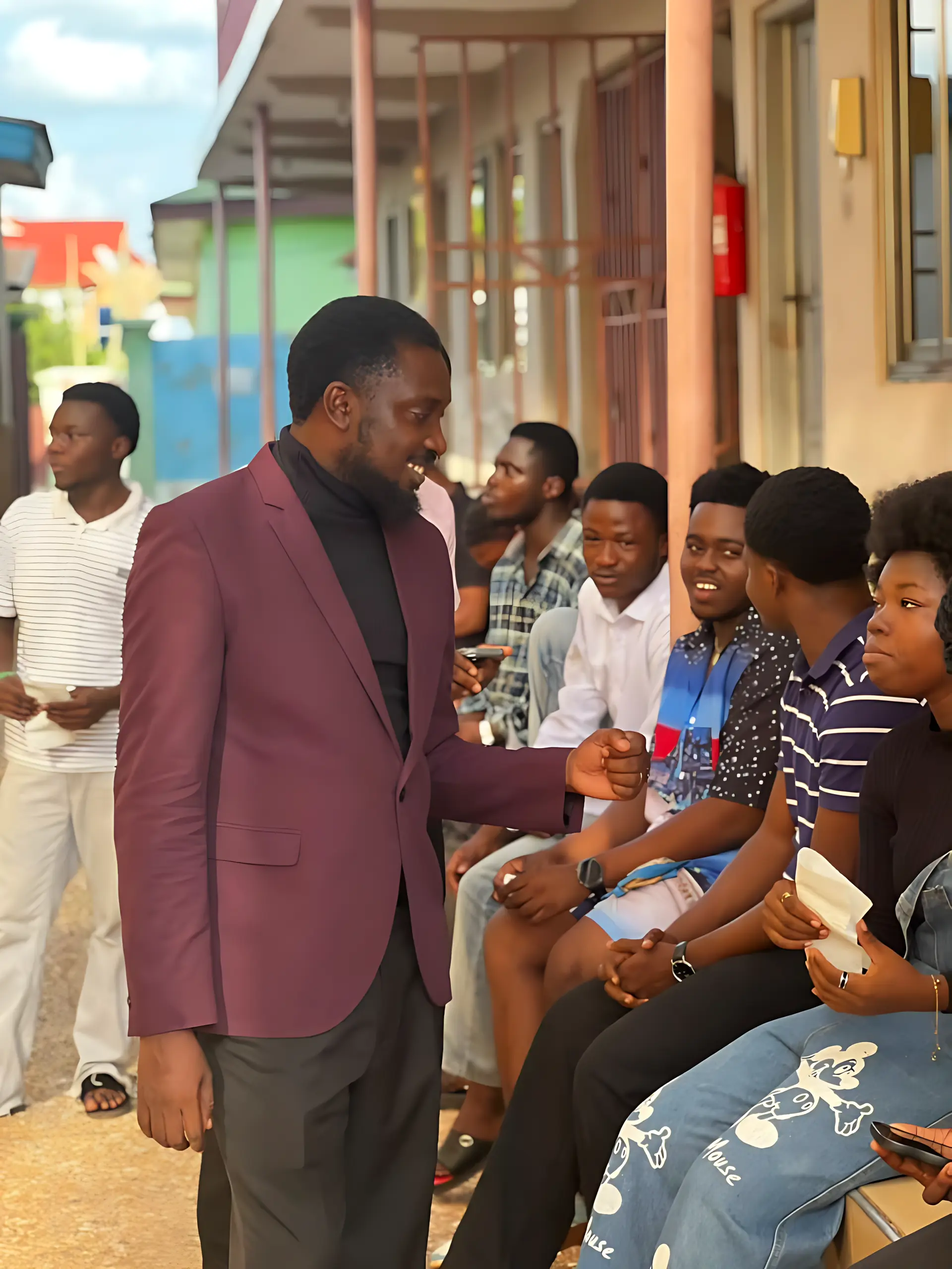
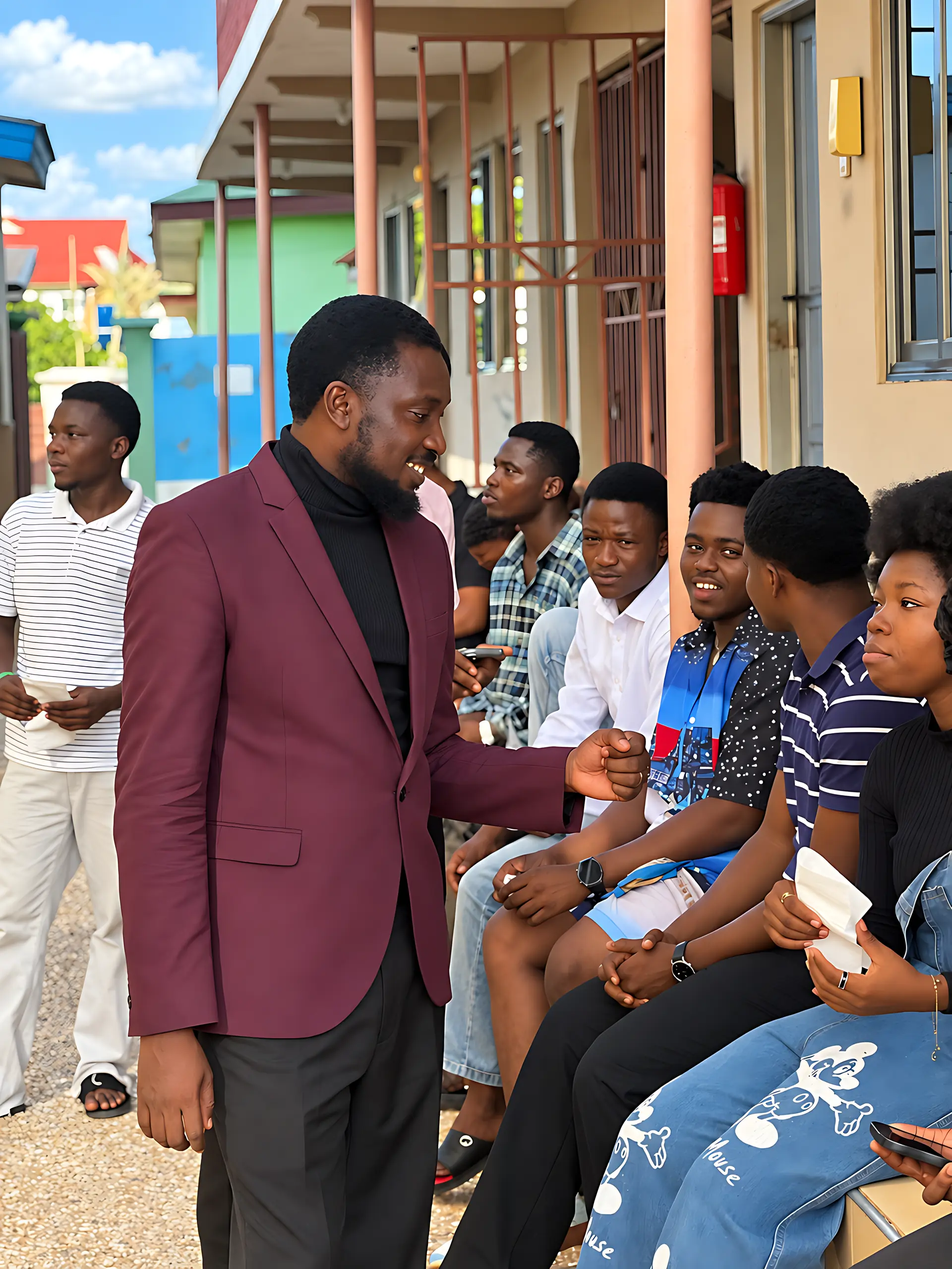
Use the enhanced versions of 15 event photos
The supplied enhanced portraits replace their matches (matched by
image similarity; framing and faces checked), lightly upscaled to
1920x2560 so they stay sharp on large and high-density screens.
The four landscape group shots and session-room keep the versions
rebuilt from the original uploads.

Claude-Session: https://claude.ai/code/session_01847okkEFcmF6LLdsYkPj8F

diff --git a/apps/web/src/content/photos.ts b/apps/web/src/content/photos.ts
@@ -1,5 +1,5 @@
 /**
- * Photos from PHANET KNUST gatherings, served from /public/photos (WebP at 1920×2560, from the original uploads; WhatsApp photos cleaned up and upscaled with Real-ESRGAN, metadata stripped).
+ * Photos from PHANET KNUST gatherings, served from /public/photos (WebP at 1920×2560, metadata stripped). 15 portraits are the enhanced versions supplied in New_Photos.zip; the other 5 are rebuilt from the original uploads.
  * Order here is the order on the Gallery page. Add a photo: drop the file in /public/photos and add a line.
  */
 export type Photo = { src: string; width: number; height: number; alt: string };
